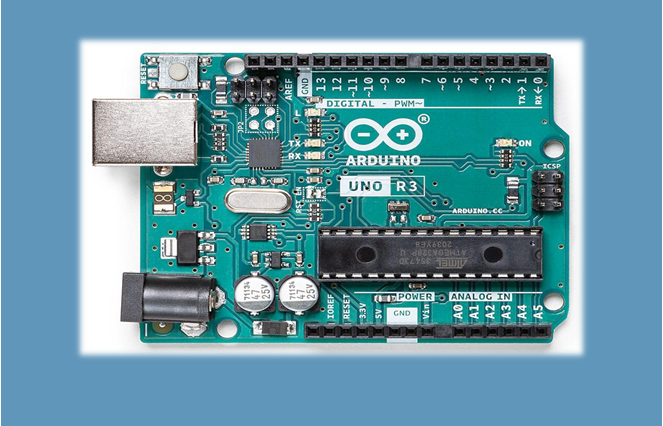
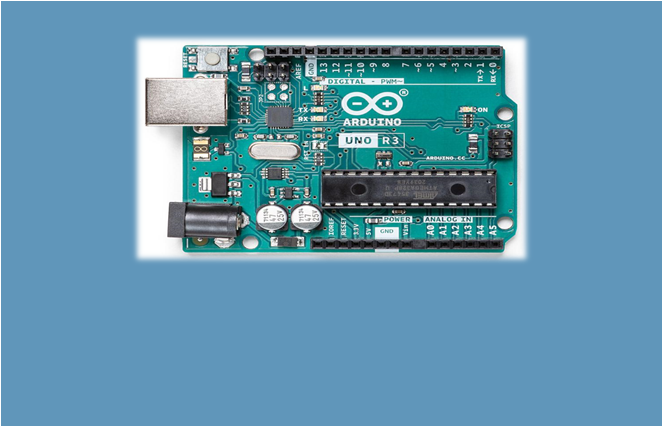
Amended images and added written papers to the main page

diff --git a/papers.html b/papers.html
@@ -1,0 +1,50 @@
+<!doctype html>
+<html lang="en">
+  <head>
+    <!-- Required meta tags -->
+    <meta charset="utf-8">
+    <meta name="viewport" content="width=device-width, initial-scale=1">
+    <!-- Bootstrap CSS -->
+    <link href="https://cdn.jsdelivr.net/npm/bootstrap@5.1.3/dist/css/bootstrap.min.css" rel="stylesheet" integrity="sha384-1BmE4kWBq78iYhFldvKuhfTAU6auU8tT94WrHftjDbrCEXSU1oBoqyl2QvZ6jIW3" crossorigin="anonymous">
+    <title>David Pearson Portfolio</title>
+  </head>
+  <body style="background-color:#E7ECEF;">
+
+    <nav class= "navbar navbar-expand-lg navbar-light" style="background-color: #6096ba">
+      <div class="container-fluid">
+        <a class="navbar-brand" href="index.html">David Pearson Portfolio</a>
+        <button class="navbar-toggler" type="button" data-bs-toggle="collapse" data-bs-target="#navbarSupportedContent" aria-controls="navbarSupportedContent" aria-expanded="false" aria-label="Toggle navigation">
+          <span class="navbar-toggler-icon"></span>
+        </button>
+        <div class="collapse navbar-collapse" id="navbarSupportedContent">
+          <ul class="navbar-nav me-auto mb-2 mb-lg-0">
+            <li class="nav-item">
+              <a class="nav-link" aria-current="page" href="index.html">Home</a>
+            </li>
+            <li class="nav-item">
+              <a class="nav-link" href="contact.html">Contact</a>
+            </li>
+            <li class="nav-item dropdown">
+              <a class="nav-link dropdown-toggle" href="#" id="navbarDropdown" role="button" data-bs-toggle="dropdown" aria-expanded="false">
+                Portfolio
+              </a>
+              <ul class="dropdown-menu" aria-labelledby="navbarDropdown" style="background-color: #a3cef1">
+                <li><a class="dropdown-item" href="#">Written Papers</a></li>
+                <li><hr class="dropdown-divider"></li>
+                <li><a class="dropdown-item" href="#">Hardware</a></li>
+                <li><hr class="dropdown-divider"></li>
+                <li><a class="dropdown-item" href="#">Software</a></li>
+              </ul>
+          </ul>
+        </div>
+      </div>
+    </nav>
+	<br>
+	<h1 class="text-center display-2">Written Papers</h1>
+	<br>
+	
+
+    <!-- Option 1: Bootstrap Bundle with Popper -->
+    <script src="https://cdn.jsdelivr.net/npm/bootstrap@5.1.3/dist/js/bootstrap.bundle.min.js" integrity="sha384-ka7Sk0Gln4gmtz2MlQnikT1wXgYsOg+OMhuP+IlRH9sENBO0LRn5q+8nbTov4+1p" crossorigin="anonymous"></script>
+  </body>
+</html>

diff --git a/index.html b/index.html
@@ -56,27 +56,35 @@
         <button type="button" data-bs-target="#mainCarousel" data-bs-slide-to="0" class="active" aria-current="true" aria-label="Slide 1"></button>
         <button type="button" data-bs-target="#mainCarousel" data-bs-slide-to="1" aria-label="Slide 2"></button>
         <button type="button" data-bs-target="#mainCarousel" data-bs-slide-to="2" aria-label="Slide 3"></button>
+        <button type="button" data-bs-target="#mainCarousel" data-bs-slide-to="3" aria-label="Slide 4"></button>
       </div>
       <div class="carousel-inner">
         <div class="carousel-item active">
-          <img src="database.png" class="d-block w-100 max-width: 500px" alt="Database image">
+          <img src="database.png" class="d-block w-100" alt="Database image">
           <div class="carousel-caption d-none d-md-block">
-            <h5>Database Technologies</h5>
+            <h5 class="text-dark">Database Technologies</h5>
             <p>Looking at relational and NoSQL database design, creation and maintenance.</p>
           </div>
         </div>
         <div class="carousel-item">
-          <img src="mobile.png" class="d-block w-100 max-width-500px" alt="Mobile image">
+          <img src="mobile.png" class="d-block w-100" alt="Mobile image">
           <div class="carousel-caption d-none d-md-block">
-            <h5>Mobile application Development</h5>
+            <h5 class="text-dark">Mobile application Development</h5>
             <p>Exploring the approaches to cross platform mobile development.</p>
           </div>
         </div>
         <div class="carousel-item">
-          <img src="arduino.png" class="d-block w-100 max-width: 500px" alt="Arduino image">
+          <img src="arduino.png" class="d-block w-100" alt="Arduino image">
           <div class="carousel-caption d-none d-md-block">
-            <h5>Hardware & Embedded Systems</h5>
+            <h5 class="text-dark">Hardware & Embedded Systems</h5>
             <p>Desiging a home automation system using embeded hardware, coupled with remote capabilities.</p>
+          </div>
+        </div>
+        <div class="carousel-item">
+          <img src="papers.png" class="d-block w-100" alt="Papers image">
+          <div class="carousel-caption d-none d-md-block">
+            <h5 class="text-dark">Academic Papers</h5>
+            <p >Various papers exploring aspects of Computer Science</p>
           </div>
         </div>
       </div>
